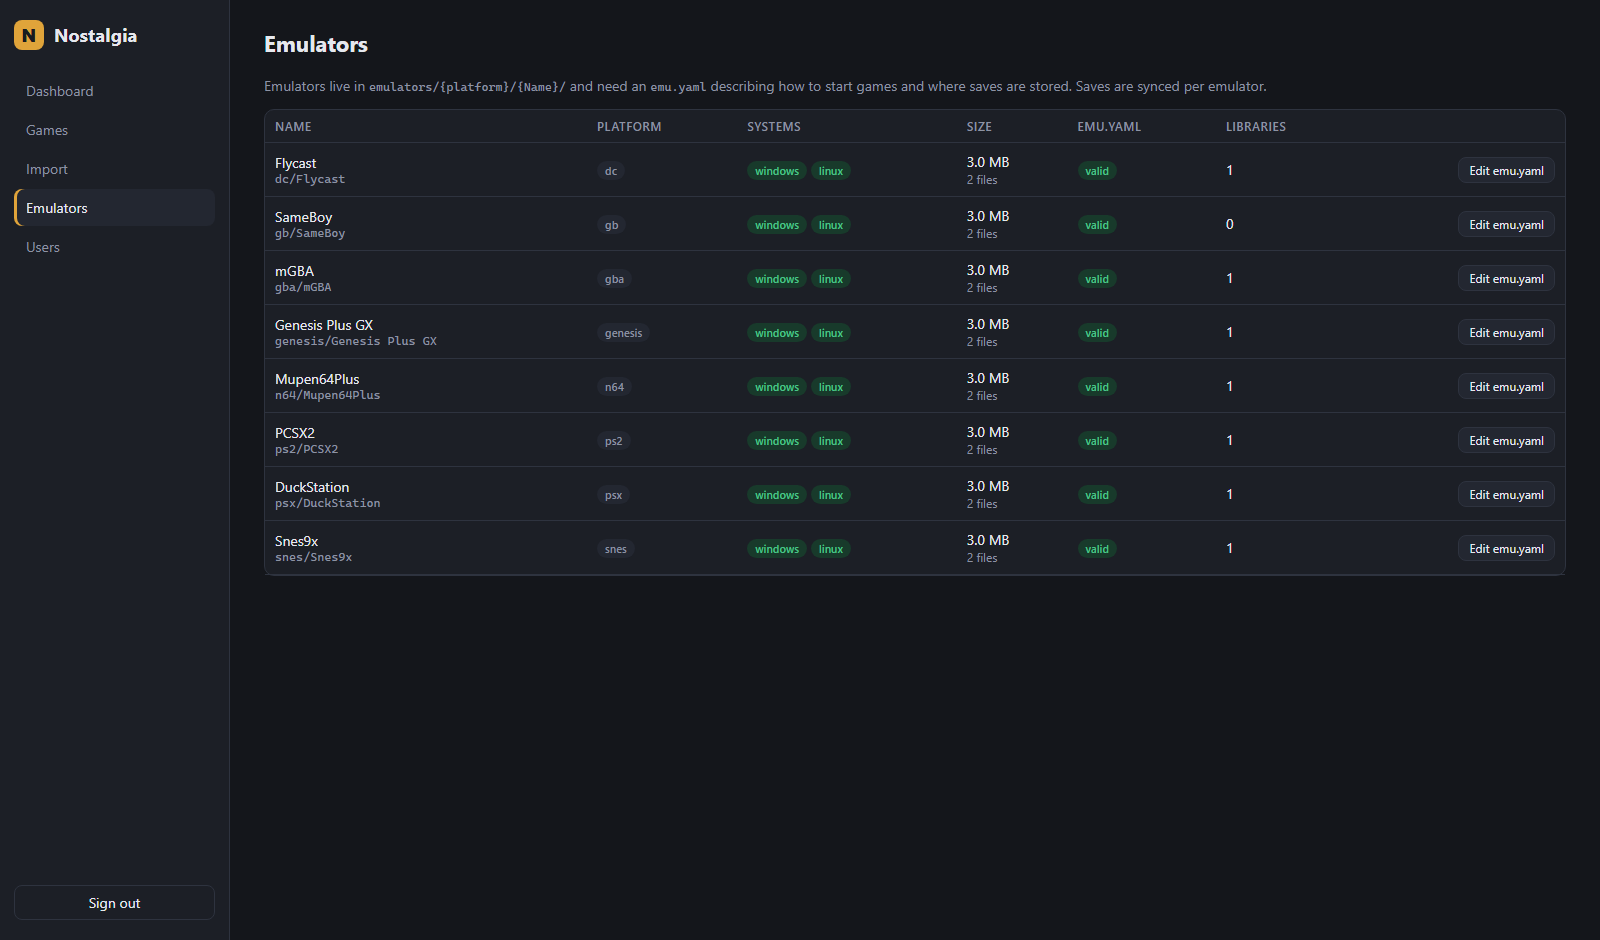
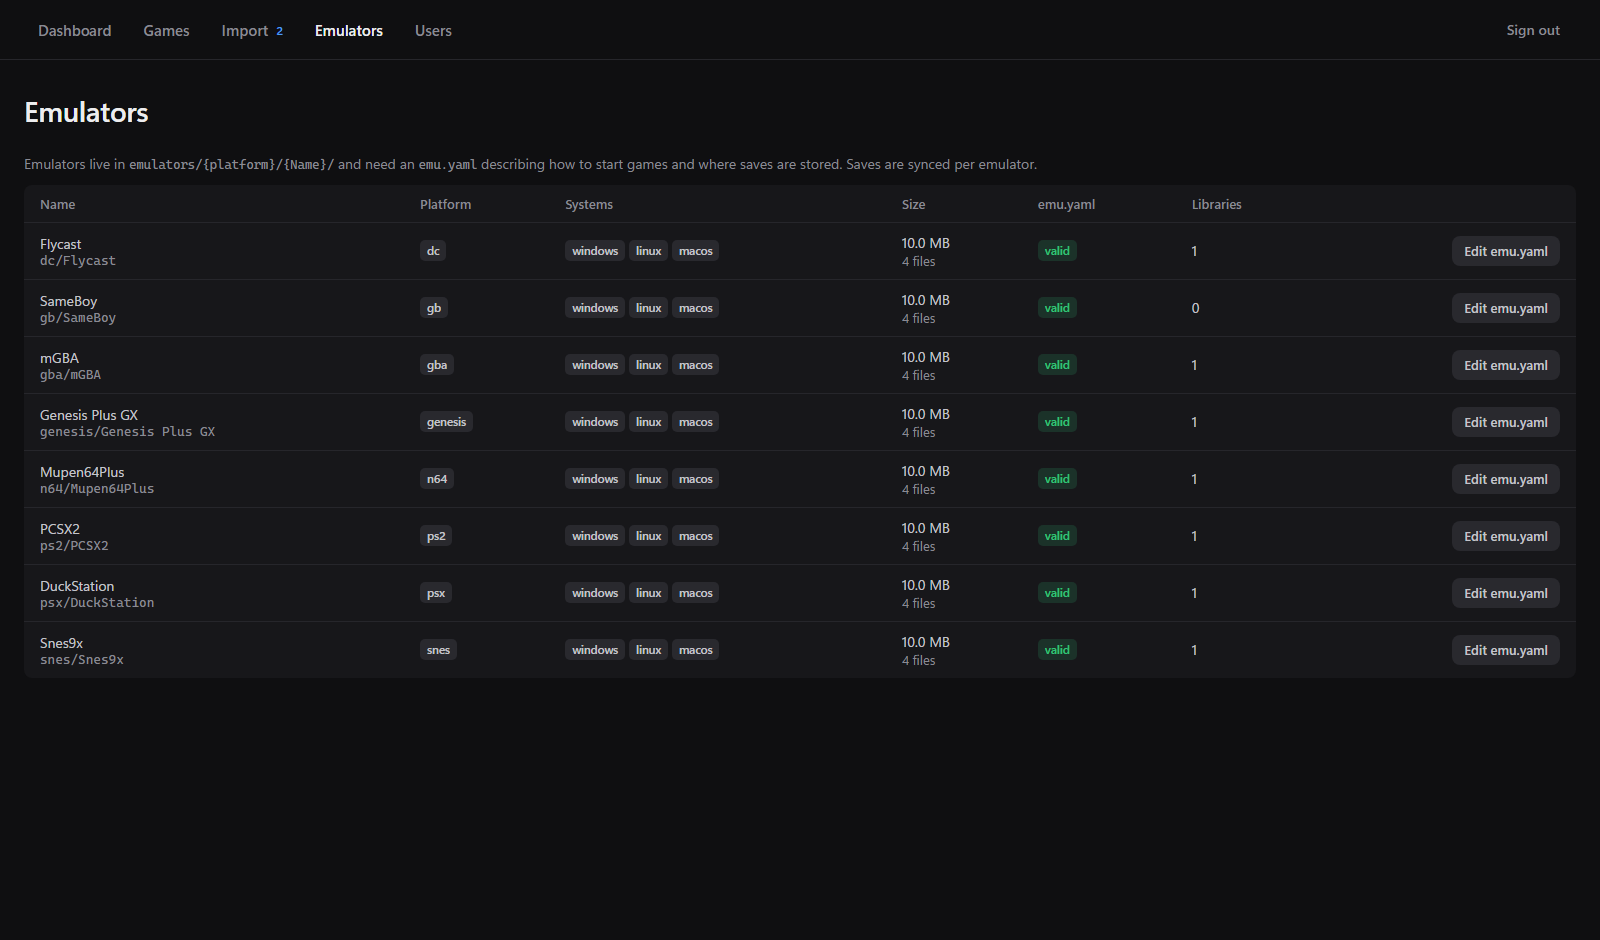
Admin UI in the client's design, new README screenshots
- Admin web UI redesigned like the client: top bar with the tabs left
  aligned instead of a sidebar, no logo, the client's neutral colours, white
  primary buttons, colour only for status (ok / warning / error), the stats
  as one band, tables and dialogs in the same style. Works on phone widths.
- NOSTALGIA_ADMIN_DIR serves the admin files from disk while working on them
  (they are embedded into the binary otherwise).
- New screenshots of the Rust client (vault, store page, library,
  downloads) and of the admin UI (dashboard, games, emulators, emu.yaml
  editor with the macos section), taken from a demo library.

diff --git a/server/admin/admin.css b/server/admin/admin.css
@@ -1,106 +1,179 @@
+/*
+ * Same design as the client: flat and neutral, colour only where it means something
+ * (ok, running, error). Top bar with the tabs left aligned, no sidebar.
+ */
 :root {
-  --bg: #14161b;
-  --panel: #1c1f26;
-  --panel2: #232731;
-  --line: #2e333f;
-  --text: #e6e8ee;
-  --muted: #8d93a3;
-  --accent: #e0a43a;
-  --accent2: #f3c46e;
-  --ok: #4cc38a;
-  --warn: #e7b03c;
-  --err: #e5575b;
-  --radius: 10px;
-  font-family: Inter, 'Segoe UI', system-ui, -apple-system, sans-serif;
+  --bg: #0f0f11;
+  --surface: #17171a;
+  --surface-2: #1f1f23;
+  --surface-3: #29292e;
+  --surface-4: #34343a;
+  --line: #26262b;
+  --text: #ededef;
+  --text-2: #c4c4ca;
+  --muted: #8a8a93;
+  --faint: #5d5d66;
+  --ok: #33c27a;
+  --ok-ink: #06170e;
+  --err: #f06a6a;
+  --err-soft: #ff9b9b;
+  --info: #4c9df0;
+  --warn: #e6b04a;
+  --focus: #ffffff;
+  --radius: 8px;
+  font-family: 'Segoe UI Variable Text', 'Segoe UI', 'Noto Sans', Inter, system-ui, -apple-system, sans-serif;
   color-scheme: dark;
 }
 * { box-sizing: border-box; }
-body { margin: 0; background: var(--bg); color: var(--text); font-size: 14px; }
-a { color: var(--accent2); text-decoration: none; }
+body { margin: 0; background: var(--bg); color: var(--text); font-size: 14px; -webkit-font-smoothing: antialiased; }
+a { color: var(--text); text-decoration: underline; text-decoration-color: var(--faint); text-underline-offset: 3px; }
+a:hover { text-decoration-color: var(--text); }
 .hidden { display: none !important; }
 .muted { color: var(--muted); }
-.error { color: var(--err); min-height: 1em; }
-h1 { font-size: 22px; margin: 0 0 18px; font-weight: 650; }
-h2 { font-size: 16px; margin: 0 0 12px; font-weight: 600; }
+.error { color: var(--err-soft); }
+p.error { min-height: 1em; margin: 0; }
+h1 { font-size: 28px; margin: 0 0 24px; font-weight: 600; letter-spacing: -0.3px; }
+h2 { font-size: 17px; margin: 0 0 4px; font-weight: 600; }
+p { line-height: 1.5; }
+
+:focus { outline: none; }
+:focus-visible { outline: 3px solid var(--focus); outline-offset: 2px; }
+
+/* ---------- inputs ---------- */
 input, select, textarea, button { font: inherit; color: inherit; }
 input, select, textarea {
-  background: var(--bg); border: 1px solid var(--line); border-radius: 8px; padding: 8px 10px; width: 100%;
+  background: var(--bg); border: 1px solid var(--line); border-radius: var(--radius); padding: 0 12px; height: 40px; width: 100%;
 }
-input:focus, select:focus, textarea:focus { outline: 2px solid var(--accent); outline-offset: -1px; }
-textarea { font-family: 'Cascadia Code', Consolas, monospace; font-size: 13px; min-height: 380px; resize: vertical; }
+input:focus, select:focus, textarea:focus { border-color: var(--muted); outline: none; }
+input:focus-visible, select:focus-visible, textarea:focus-visible { outline: none; }
+select { padding-right: 8px; }
+textarea {
+  font-family: 'Cascadia Code', 'DejaVu Sans Mono', Consolas, monospace; font-size: 13px; line-height: 1.5;
+  min-height: 380px; resize: vertical; padding: 12px; height: auto;
+}
+input[type='checkbox'] { width: 16px; height: 16px; accent-color: var(--ok); margin: 0; }
 label { display: grid; gap: 6px; color: var(--muted); font-size: 13px; }
+.check { display: flex; gap: 10px; align-items: center; color: var(--text-2); font-size: 14px; }
+.check input { width: 16px; }
+
+/* ---------- buttons ---------- */
 button {
-  border: 1px solid var(--line); background: var(--panel2); border-radius: 8px; padding: 7px 14px; cursor: pointer;
-  transition: background .12s, border-color .12s;
+  display: inline-flex; align-items: center; justify-content: center; gap: 8px; white-space: nowrap;
+  border: 0; background: var(--surface-3); border-radius: var(--radius); height: 36px; padding: 0 16px;
+  font-weight: 500; cursor: pointer; transition: background .1s, color .1s;
 }
-button:hover { border-color: #444b5a; background: #2a2f3b; }
-button:disabled { opacity: .5; cursor: default; }
-button.primary { background: var(--accent); border-color: var(--accent); color: #1b1d22; font-weight: 600; }
-button.primary:hover { background: var(--accent2); }
-button.ghost { background: transparent; }
-button.danger { color: var(--err); }
-button.small { padding: 4px 10px; font-size: 12px; }
+button:hover:not(:disabled) { background: var(--surface-4); }
+button:disabled { opacity: .4; cursor: default; }
+button.primary { background: var(--text); color: var(--bg); }
+button.primary:hover:not(:disabled) { background: #fff; }
+button.ghost { background: transparent; color: var(--muted); }
+button.ghost:hover:not(:disabled) { background: var(--surface-2); color: var(--text); }
+button.danger { color: var(--err-soft); }
+button.small { height: 30px; padding: 0 12px; font-size: 13px; }
+button.big { height: 44px; font-size: 15px; font-weight: 600; }
 
-.login { position: fixed; inset: 0; display: grid; place-items: center; background: radial-gradient(circle at 30% 20%, #2a2312, var(--bg) 60%); }
-.login-card { width: 340px; display: grid; gap: 14px; padding: 28px; }
-.brand { display: flex; align-items: center; gap: 10px; font-weight: 700; font-size: 18px; letter-spacing: .3px; }
-.brand.big { font-size: 24px; }
-.logo { width: 30px; height: 30px; border-radius: 8px; background: var(--accent); color: #181a1f; display: grid; place-items: center; font-weight: 800; }
+/* ---------- login ---------- */
+.login { position: fixed; inset: 0; display: grid; place-items: center; background: var(--bg); padding: 16px; }
+.login-card { width: min(380px, 100%); display: grid; gap: 16px; }
+.login-card h1 { font-size: 32px; margin: 0; }
+.login-card p.muted { margin: 4px 0 8px; }
 
-#app { display: grid; grid-template-columns: 230px 1fr; min-height: 100vh; }
-.sidebar { background: var(--panel); border-right: 1px solid var(--line); padding: 20px 14px; display: flex; flex-direction: column; gap: 22px; position: sticky; top: 0; height: 100vh; }
-nav { display: grid; gap: 2px; }
-nav a { color: var(--muted); padding: 9px 12px; border-radius: 8px; display: flex; justify-content: space-between; align-items: center; }
-nav a:hover { color: var(--text); background: var(--panel2); }
-nav a.active { color: var(--text); background: var(--panel2); box-shadow: inset 3px 0 0 var(--accent); }
-.badge { background: var(--accent); color: #1b1d22; border-radius: 99px; font-size: 11px; padding: 1px 7px; font-weight: 700; }
+/* ---------- shell ---------- */
+.topbar {
+  position: sticky; top: 0; z-index: 5; display: flex; align-items: center; gap: 16px;
+  height: 60px; padding: 0 24px; background: var(--bg); border-bottom: 1px solid var(--line);
+}
+.tabs { display: flex; align-items: center; gap: 4px; flex: 1; min-width: 0; overflow-x: auto; scrollbar-width: none; }
+.tabs a {
+  position: relative; display: flex; align-items: center; gap: 8px; height: 40px; padding: 0 14px;
+  border-radius: var(--radius); color: var(--muted); font-size: 15px; font-weight: 500; text-decoration: none; white-space: nowrap;
+}
+.tabs a:hover { color: var(--text); background: var(--surface-2); }
+.tabs a.active { color: var(--text); }
+.tabs a.active::after { content: ''; position: absolute; left: 14px; right: 14px; bottom: -10px; height: 2px; background: var(--text); }
+.badge { font-size: 12px; font-weight: 600; color: var(--info); font-variant-numeric: tabular-nums; }
 .badge:empty { display: none; }
-.sidebar-foot { margin-top: auto; display: grid; gap: 10px; }
-.job-indicator { font-size: 12px; color: var(--muted); line-height: 1.5; }
-main { padding: 28px 34px; max-width: 1400px; width: 100%; }
+.job-indicator { display: flex; gap: 16px; font-size: 13px; color: var(--muted); white-space: nowrap; overflow: hidden; min-width: 0; }
+.job-indicator span { display: inline-flex; align-items: center; gap: 8px; overflow: hidden; text-overflow: ellipsis; }
+.job-indicator span::before { content: ''; width: 7px; height: 7px; border-radius: 50%; background: var(--ok); flex: none; }
+main { padding: 32px 24px 64px; max-width: 1640px; }
 
-.card { background: var(--panel); border: 1px solid var(--line); border-radius: var(--radius); padding: 18px; }
-.grid { display: grid; gap: 14px; }
-.stats { grid-template-columns: repeat(auto-fill, minmax(170px, 1fr)); margin-bottom: 18px; }
-.stat .v { font-size: 26px; font-weight: 700; margin-top: 4px; }
-.stat .l { color: var(--muted); font-size: 12px; text-transform: uppercase; letter-spacing: .6px; }
+/* ---------- layout ---------- */
+.card { background: var(--surface); border-radius: var(--radius); padding: 20px; min-width: 0; }
+.grid { display: grid; gap: 16px; }
 .row { display: flex; gap: 10px; align-items: center; flex-wrap: wrap; }
 .row.end { justify-content: flex-end; }
 .spacer { flex: 1; }
-.toolbar { display: flex; gap: 10px; align-items: center; margin-bottom: 14px; flex-wrap: wrap; }
-.toolbar input, .toolbar select { width: auto; min-width: 200px; }
-.check { display: flex; gap: 8px; align-items: center; color: var(--text); flex-direction: row; }
-.check input { width: auto; }
+.toolbar { display: flex; gap: 10px; align-items: center; margin-bottom: 16px; flex-wrap: wrap; }
+.toolbar input, .toolbar select { width: auto; min-width: 220px; }
 
+/* stats: one band of numbers instead of a wall of boxes */
+.stats {
+  grid-template-columns: repeat(4, 1fr); gap: 1px; margin-bottom: 24px;
+  background: var(--line); border-radius: var(--radius); overflow: hidden;
+}
+.card.grid { align-content: start; }
+.card.grid > p { margin: 0; }
+.stats .card { border-radius: 0; padding: 16px 20px; }
+.stat .l { color: var(--muted); font-size: 13px; }
+.stat .v { font-size: 22px; font-weight: 600; margin-top: 6px; font-variant-numeric: tabular-nums; letter-spacing: -0.2px; }
+
+/* ---------- tables ---------- */
 table { width: 100%; border-collapse: collapse; }
-th { text-align: left; color: var(--muted); font-weight: 500; font-size: 12px; text-transform: uppercase; letter-spacing: .5px; padding: 8px 10px; border-bottom: 1px solid var(--line); }
-td { padding: 9px 10px; border-bottom: 1px solid var(--line); vertical-align: middle; }
-tr:hover td { background: #1f232b; }
-.thumb { width: 40px; height: 54px; object-fit: cover; border-radius: 4px; background: var(--panel2); display: block; }
-.pill { display: inline-block; padding: 2px 8px; border-radius: 99px; font-size: 11px; font-weight: 600; background: var(--panel2); color: var(--muted); }
-.pill.ok { background: #183a2b; color: var(--ok); }
-.pill.warn { background: #3b3018; color: var(--warn); }
-.pill.err { background: #3d1c1e; color: var(--err); }
-.mono { font-family: 'Cascadia Code', Consolas, monospace; font-size: 12px; }
-.small-text { font-size: 12px; }
+th { text-align: left; color: var(--muted); font-weight: 500; font-size: 13px; padding: 10px 12px; border-bottom: 1px solid var(--line); white-space: nowrap; }
+td { padding: 10px 12px; border-bottom: 1px solid var(--line); vertical-align: middle; color: var(--text-2); }
+td:first-child, th:first-child { padding-left: 16px; }
+td:last-child, th:last-child { padding-right: 16px; }
+tbody tr:last-child td { border-bottom: 0; }
+tbody tr:hover td { background: var(--surface-2); }
+.card > table, .card table { margin: -4px 0; }
+.thumb { width: 40px; height: 54px; object-fit: cover; border-radius: 4px; background: var(--surface-3); display: block; }
 
-.modal { position: fixed; inset: 0; background: rgba(5, 6, 8, .7); display: grid; place-items: center; z-index: 10; padding: 20px; }
-.modal-box { background: var(--panel); border: 1px solid var(--line); border-radius: 12px; padding: 22px; width: min(760px, 100%); max-height: 90vh; overflow: auto; display: grid; gap: 14px; }
-.results { display: grid; gap: 6px; max-height: 360px; overflow: auto; }
-.result { display: flex; gap: 12px; align-items: center; padding: 8px; border: 1px solid var(--line); border-radius: 8px; cursor: pointer; }
-.result:hover, .result.sel { border-color: var(--accent); background: #262118; }
-.result img { width: 36px; height: 48px; object-fit: cover; border-radius: 4px; background: var(--panel2); }
-.toasts { position: fixed; bottom: 20px; right: 20px; display: grid; gap: 8px; z-index: 20; }
-.toast { background: var(--panel2); border: 1px solid var(--line); border-left: 3px solid var(--accent); padding: 10px 14px; border-radius: 8px; min-width: 260px; box-shadow: 0 8px 24px rgba(0,0,0,.4); }
-.toast.err { border-left-color: var(--err); }
-.progress { height: 6px; background: var(--panel2); border-radius: 99px; overflow: hidden; }
-.progress > div { height: 100%; background: var(--accent); width: 0; transition: width .3s; }
-.kv { display: grid; grid-template-columns: 160px 1fr; gap: 6px 14px; }
+/* ---------- status ---------- */
+.pill {
+  display: inline-flex; align-items: center; gap: 4px; padding: 3px 7px; border-radius: 5px;
+  font-size: 11.5px; font-weight: 600; background: var(--surface-3); color: var(--text-2); white-space: nowrap;
+}
+.pill.ok { background: rgba(51, 194, 122, .16); color: var(--ok); }
+.pill.warn { background: rgba(230, 176, 74, .16); color: var(--warn); }
+.pill.err { background: rgba(240, 106, 106, .16); color: var(--err-soft); }
+.mono { font-family: 'Cascadia Code', 'DejaVu Sans Mono', Consolas, monospace; font-size: 12.5px; }
+.small-text { font-size: 13px; }
+.progress { height: 4px; background: var(--surface-3); border-radius: 99px; overflow: hidden; }
+.progress > div { height: 100%; background: var(--info); width: 0; transition: width .3s; }
+.kv { display: grid; grid-template-columns: 150px 1fr; gap: 10px 16px; align-items: baseline; }
 .kv div:nth-child(odd) { color: var(--muted); }
 .kv div { min-width: 0; overflow-wrap: anywhere; }
-.empty { padding: 40px; text-align: center; color: var(--muted); }
+.empty { padding: 48px 20px; text-align: center; color: var(--muted); }
+
+/* ---------- dialogs ---------- */
+.modal { position: fixed; inset: 0; background: rgba(0, 0, 0, .7); display: grid; place-items: center; z-index: 10; padding: 16px; }
+.modal-box {
+  background: var(--surface); border: 1px solid var(--line); border-radius: 12px; padding: 24px;
+  width: min(760px, 100%); max-height: 90vh; overflow: auto; display: grid; gap: 16px;
+}
+.modal-box h2 { margin: 0; }
+.results { display: grid; gap: 4px; max-height: 360px; overflow: auto; }
+.result { display: flex; gap: 12px; align-items: center; padding: 8px; border-radius: var(--radius); cursor: pointer; }
+.result:hover { background: var(--surface-2); }
+.result.sel { background: var(--surface-3); box-shadow: inset 0 0 0 2px var(--text); }
+.result img { width: 36px; height: 48px; object-fit: cover; border-radius: 4px; background: var(--surface-3); }
+.toasts { position: fixed; bottom: 20px; right: 20px; display: grid; gap: 8px; z-index: 20; }
+.toast {
+  background: var(--surface-2); border-left: 3px solid var(--ok); padding: 12px 16px; border-radius: var(--radius);
+  min-width: 260px; max-width: 420px; box-shadow: 0 8px 24px rgba(0, 0, 0, .5);
+}
+.toast.err { border-left-color: var(--err); }
+
 @media (max-width: 800px) {
-  #app { grid-template-columns: 1fr; }
-  .sidebar { position: static; height: auto; }
-  main { padding: 18px 16px; }
+  .stats { grid-template-columns: repeat(2, 1fr); }
+  .topbar { padding: 0 8px; gap: 8px; }
+  .job-indicator { display: none; }
+  main { padding: 20px 16px 48px; }
+  h1 { font-size: 24px; margin-bottom: 18px; }
+  .card { padding: 16px; }
+  .card:has(> table) { overflow-x: auto; }
+  .kv { grid-template-columns: 1fr; gap: 2px; }
+  .kv div:nth-child(even) { margin-bottom: 8px; }
+  .toolbar input, .toolbar select { min-width: 0; flex: 1 1 160px; }
 }

diff --git a/server/admin/index.html b/server/admin/index.html
@@ -9,31 +9,30 @@
 </head>
 <body>
   <div id="login" class="login hidden">
-    <form id="loginForm" class="card login-card">
-      <div class="brand big"><span class="logo">N</span> Nostalgia</div>
-      <p class="muted">Server administration</p>
+    <form id="loginForm" class="login-card">
+      <div>
+        <h1>Nostalgia</h1>
+        <p class="muted">Server administration</p>
+      </div>
       <label>Username <input name="username" autocomplete="username" required /></label>
       <label>Password <input name="password" type="password" autocomplete="current-password" required /></label>
-      <button class="primary" type="submit">Sign in</button>
+      <button class="primary big" type="submit">Sign in</button>
       <p class="error" id="loginError"></p>
     </form>
   </div>
 
   <div id="app" class="hidden">
-    <aside class="sidebar">
-      <div class="brand"><span class="logo">N</span> Nostalgia</div>
-      <nav id="nav">
+    <header class="topbar">
+      <nav id="nav" class="tabs">
         <a href="#dashboard" data-page="dashboard">Dashboard</a>
         <a href="#games" data-page="games">Games</a>
         <a href="#import" data-page="import">Import <span class="badge" id="unsortedBadge"></span></a>
         <a href="#emulators" data-page="emulators">Emulators</a>
         <a href="#users" data-page="users">Users</a>
       </nav>
-      <div class="sidebar-foot">
-        <div id="jobIndicator" class="job-indicator"></div>
-        <button id="logout" class="ghost">Sign out</button>
-      </div>
-    </aside>
+      <div id="jobIndicator" class="job-indicator"></div>
+      <button id="logout" class="ghost">Sign out</button>
+    </header>
     <main id="main"></main>
   </div>
 

diff --git a/server/admin/admin.js b/server/admin/admin.js
@@ -100,7 +100,7 @@
         const pct = j.hashing.bytesTotal ? Math.round((j.hashing.bytesDone / j.hashing.bytesTotal) * 100) : 0;
         parts.push(`Hashing ${esc(j.hashing.current || '')} ${pct}%`);
       }
-      $('#jobIndicator').innerHTML = parts.join('<br>');
+      $('#jobIndicator').innerHTML = parts.map((p) => `<span>${p}</span>`).join('');
       const badge = j.scan.last?.unsorted?.length || '';
       $('#unsortedBadge').textContent = badge;
       return j;
@@ -327,7 +327,7 @@
         <tbody>${emus.length ? emus.map((e) => `<tr data-id="${e.id}">
           <td>${esc(e.name)} ${e.missing ? '<span class="pill err">missing</span>' : ''}<div class="muted small-text mono">${esc(e.relPath)}</div></td>
           <td><span class="pill">${esc(e.platform)}</span></td>
-          <td>${e.supports.map((s) => `<span class="pill ok">${s}</span>`).join(' ') || '-'}</td>
+          <td>${e.supports.map((s) => `<span class="pill">${s}</span>`).join(' ') || '-'}</td>
           <td>${fmtBytes(e.sizeBytes)}<div class="muted small-text">${e.fileCount} files</div></td>
           <td>${e.configError ? `<span class="pill err" title="${esc(e.configError)}">${esc(e.configError)}</span>` : '<span class="pill ok">valid</span>'}</td>
           <td>${e.inLibraries}</td>

diff --git a/server/src/routes_admin.rs b/server/src/routes_admin.rs
@@ -456,5 +456,10 @@ fn asset(name: &str) -> Response {
         "favicon.svg" => (FAVICON, "image/svg+xml"),
         _ => return HttpError::not_found("Not found").into_response(),
     };
+    // Working on the admin UI: NOSTALGIA_ADMIN_DIR=server/admin serves the files from disk,
+    // so changes show up on reload without rebuilding the server.
+    let body: Vec<u8> = std::env::var_os("NOSTALGIA_ADMIN_DIR")
+        .and_then(|dir| std::fs::read(std::path::Path::new(&dir).join(name)).ok())
+        .unwrap_or_else(|| body.to_vec());
     ([(header::CONTENT_TYPE, ct), (header::CACHE_CONTROL, "public, max-age=0")], body).into_response()
 }

diff --git a/README.md b/README.md
@@ -20,6 +20,8 @@ Both are written in Rust and ship as single native executables.
 | [![Store page with IGDB artwork, description and facts](docs/screenshots/store.png)](docs/screenshots/store.png) | [![Library with play time, cloud saves and per-game settings](docs/screenshots/library.png)](docs/screenshots/library.png) |
 | **Downloads** (resumable, pausable) | **Admin UI**: games |
 | [![Downloads with paused and finished items](docs/screenshots/downloads.png)](docs/screenshots/downloads.png) | [![Admin games list](docs/screenshots/admin-games.png)](docs/screenshots/admin-games.png) |
+| **Admin UI**: dashboard | **Admin UI**: emu.yaml editor |
+| [![Admin dashboard with library, saves and server status](docs/screenshots/admin-dashboard.png)](docs/screenshots/admin-dashboard.png) | [![Editing an emulator's emu.yaml with Windows, Linux and macOS sections](docs/screenshots/admin-emu-yaml.png)](docs/screenshots/admin-emu-yaml.png) |
 
 ```
 ┌───────────────────────────── server (Rust) ───────────────────────────────┐
@@ -310,6 +312,9 @@ cargo test --workspace
 cargo build --release                 # target/release/nostalgia-server, target/release/nostalgia
 scripts/package.sh server             # release package for this OS -> release/
 ```
+
+The admin UI (`server/admin`) is built into the server binary. While working on it, start the server
+with `NOSTALGIA_ADMIN_DIR=server/admin` to serve the files from disk, so changes show up on reload.
 
 ### Version
 
